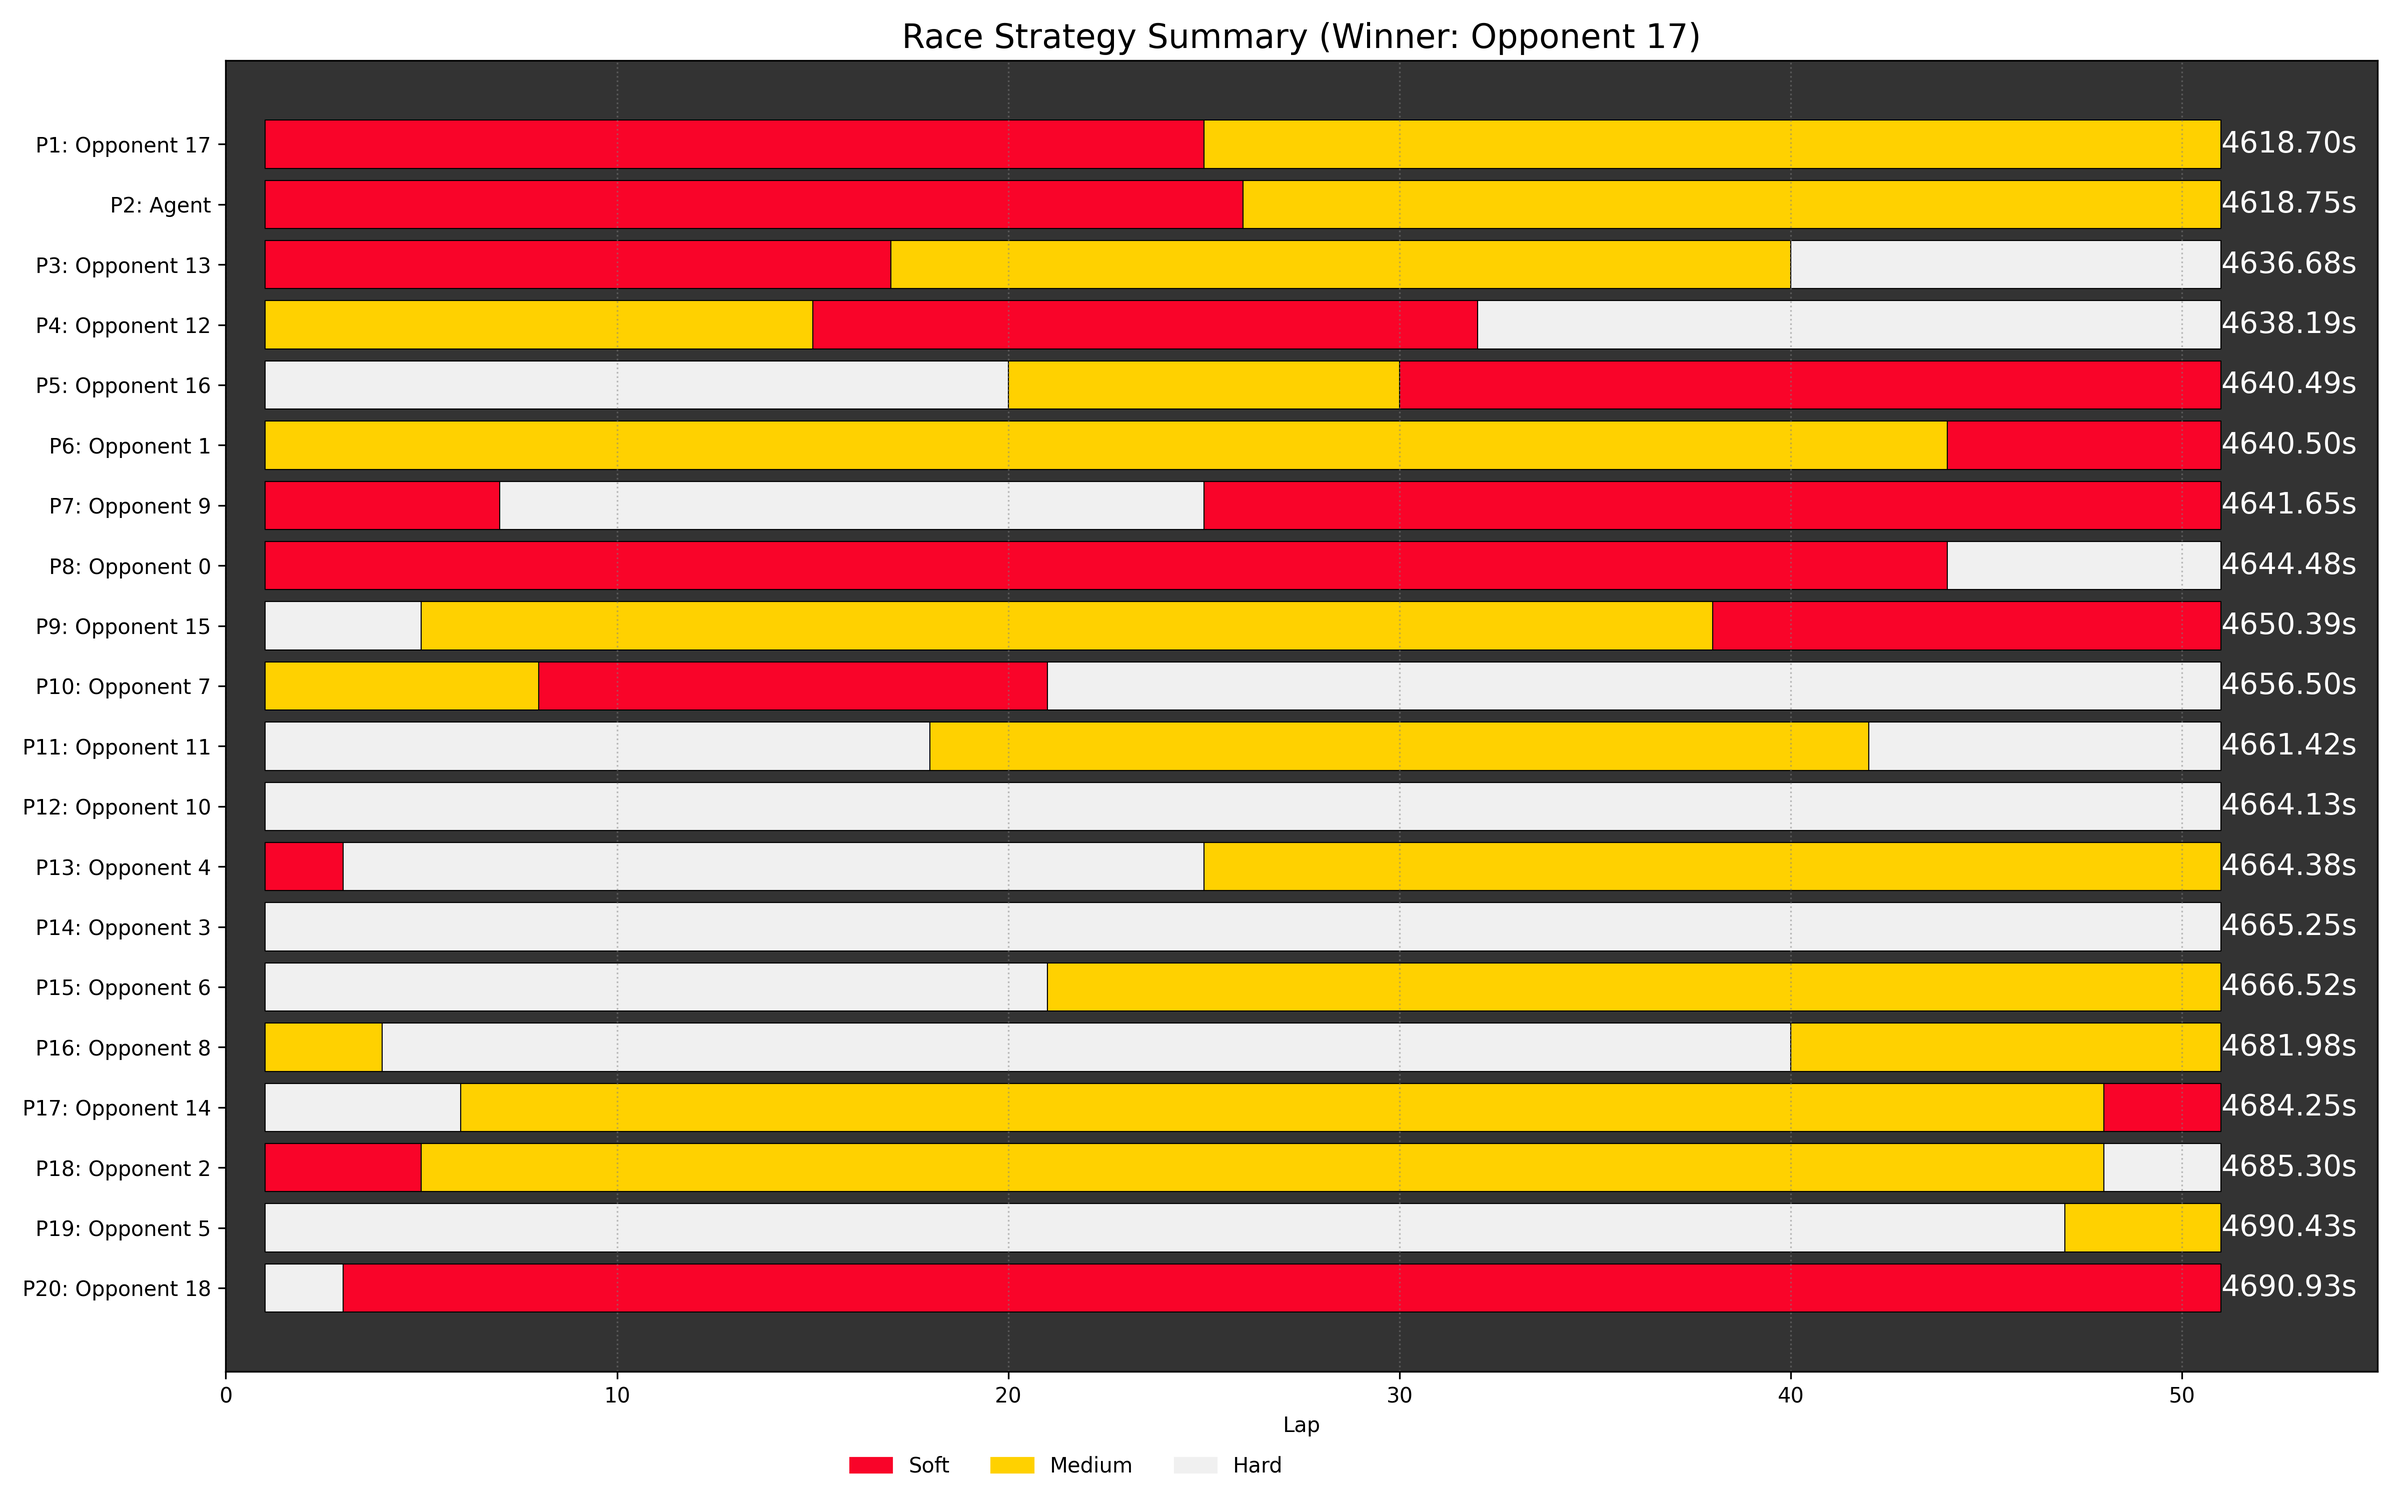
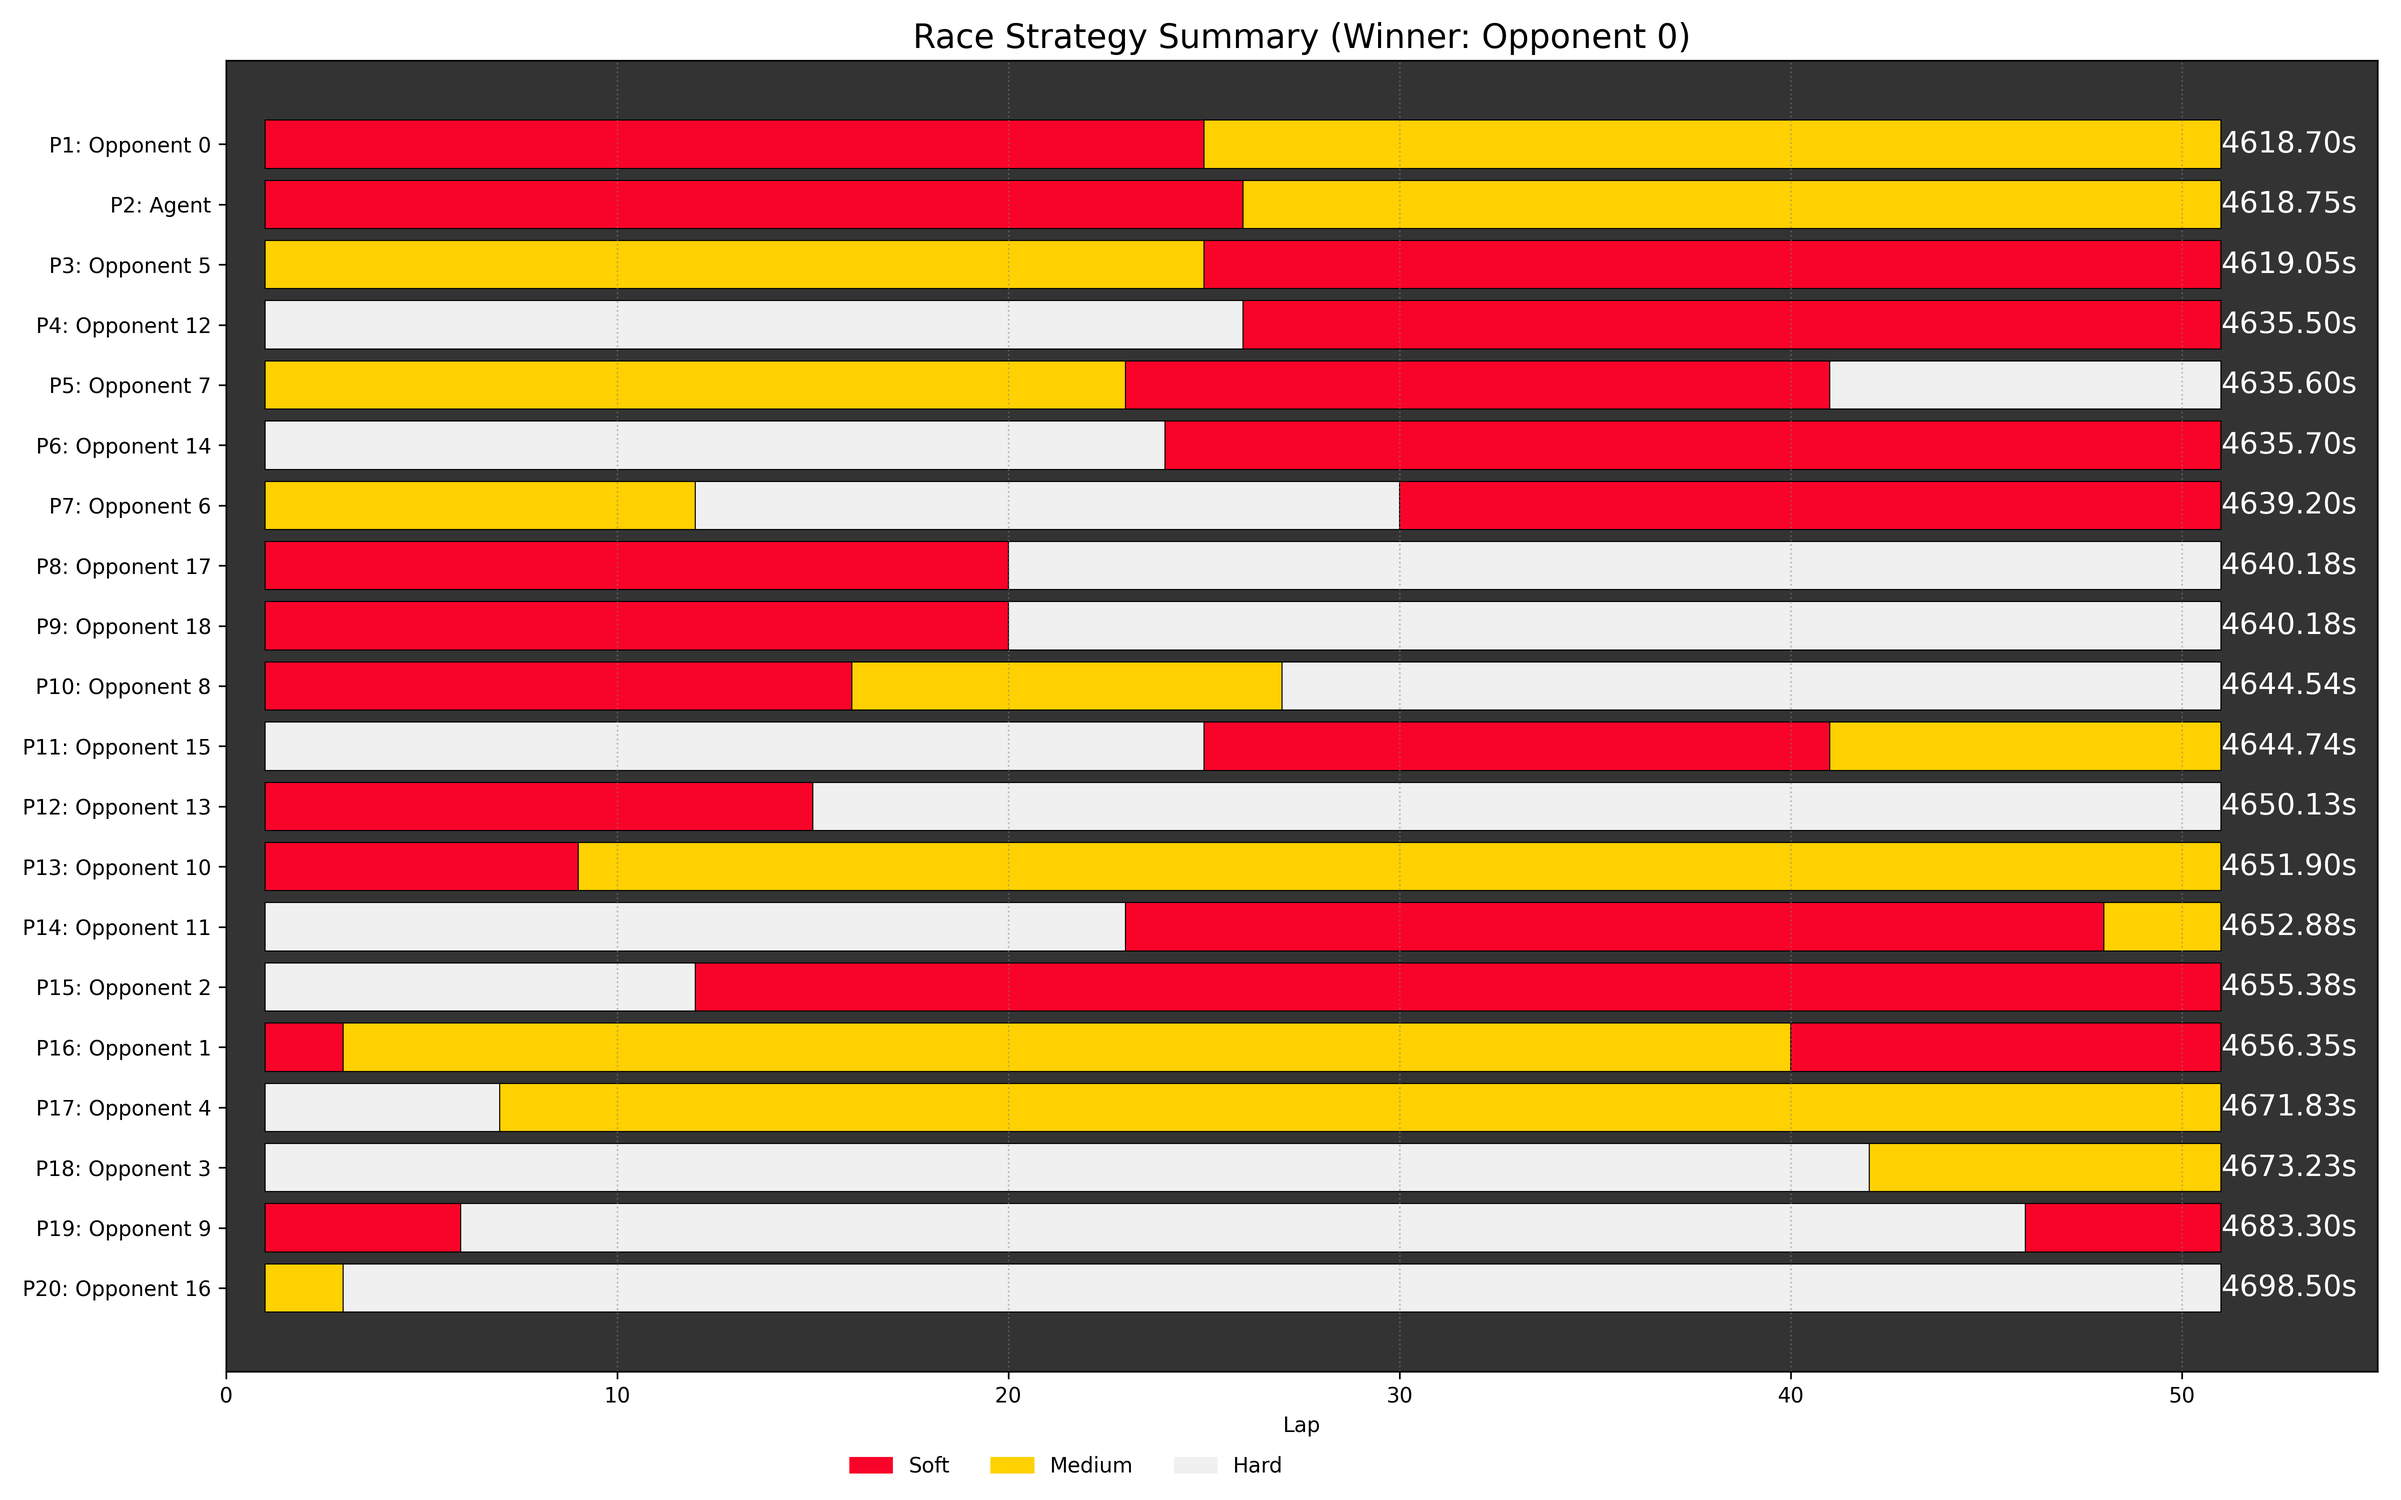
Fixed Opponent Not Pitting

diff --git a/f1_gym/opponent/dynamics.py b/f1_gym/opponent/dynamics.py
@@ -66,15 +66,19 @@ class RandomOpponent:
     def generate_strategy(self) -> Dict[str, Any]:
         """Generate a random pit stop strategy (1-stop or 2-stop)"""
 
+        start_compound = self.starting_compound
+
+        # Determine strategy type
         strategy_type = random.choice([1, 2])
         
         # 1-Stop Strategy
         if strategy_type == 1:
-            # Choose starting and pit compounds (ensuring they're different)    
-            # Random lap for pit stop and compounds
-            start_compound = random.choice([1, 2, 3])
+            # Choose pit compound (ensuring it's different from start)
             pit_compound = random.choice([c for c in [1, 2, 3] if c != start_compound])
-            pit_lap = random.randint(2, self.track.laps - 1)
+            
+            # Ensure valid range
+            max_pit_lap = max(2, self.track.laps - 1)
+            pit_lap = random.randint(2, max_pit_lap)
             
             return {
                 "type": 1,
@@ -84,7 +88,6 @@ class RandomOpponent:
         
         # 2-Stop Strategy
         else:
-            start_compound = random.choice([1, 2, 3])
             pit1_lap = random.randint(2, self.track.laps - 20)
             pit2_lap = random.randint(pit1_lap + 5, self.track.laps - 1)
             
